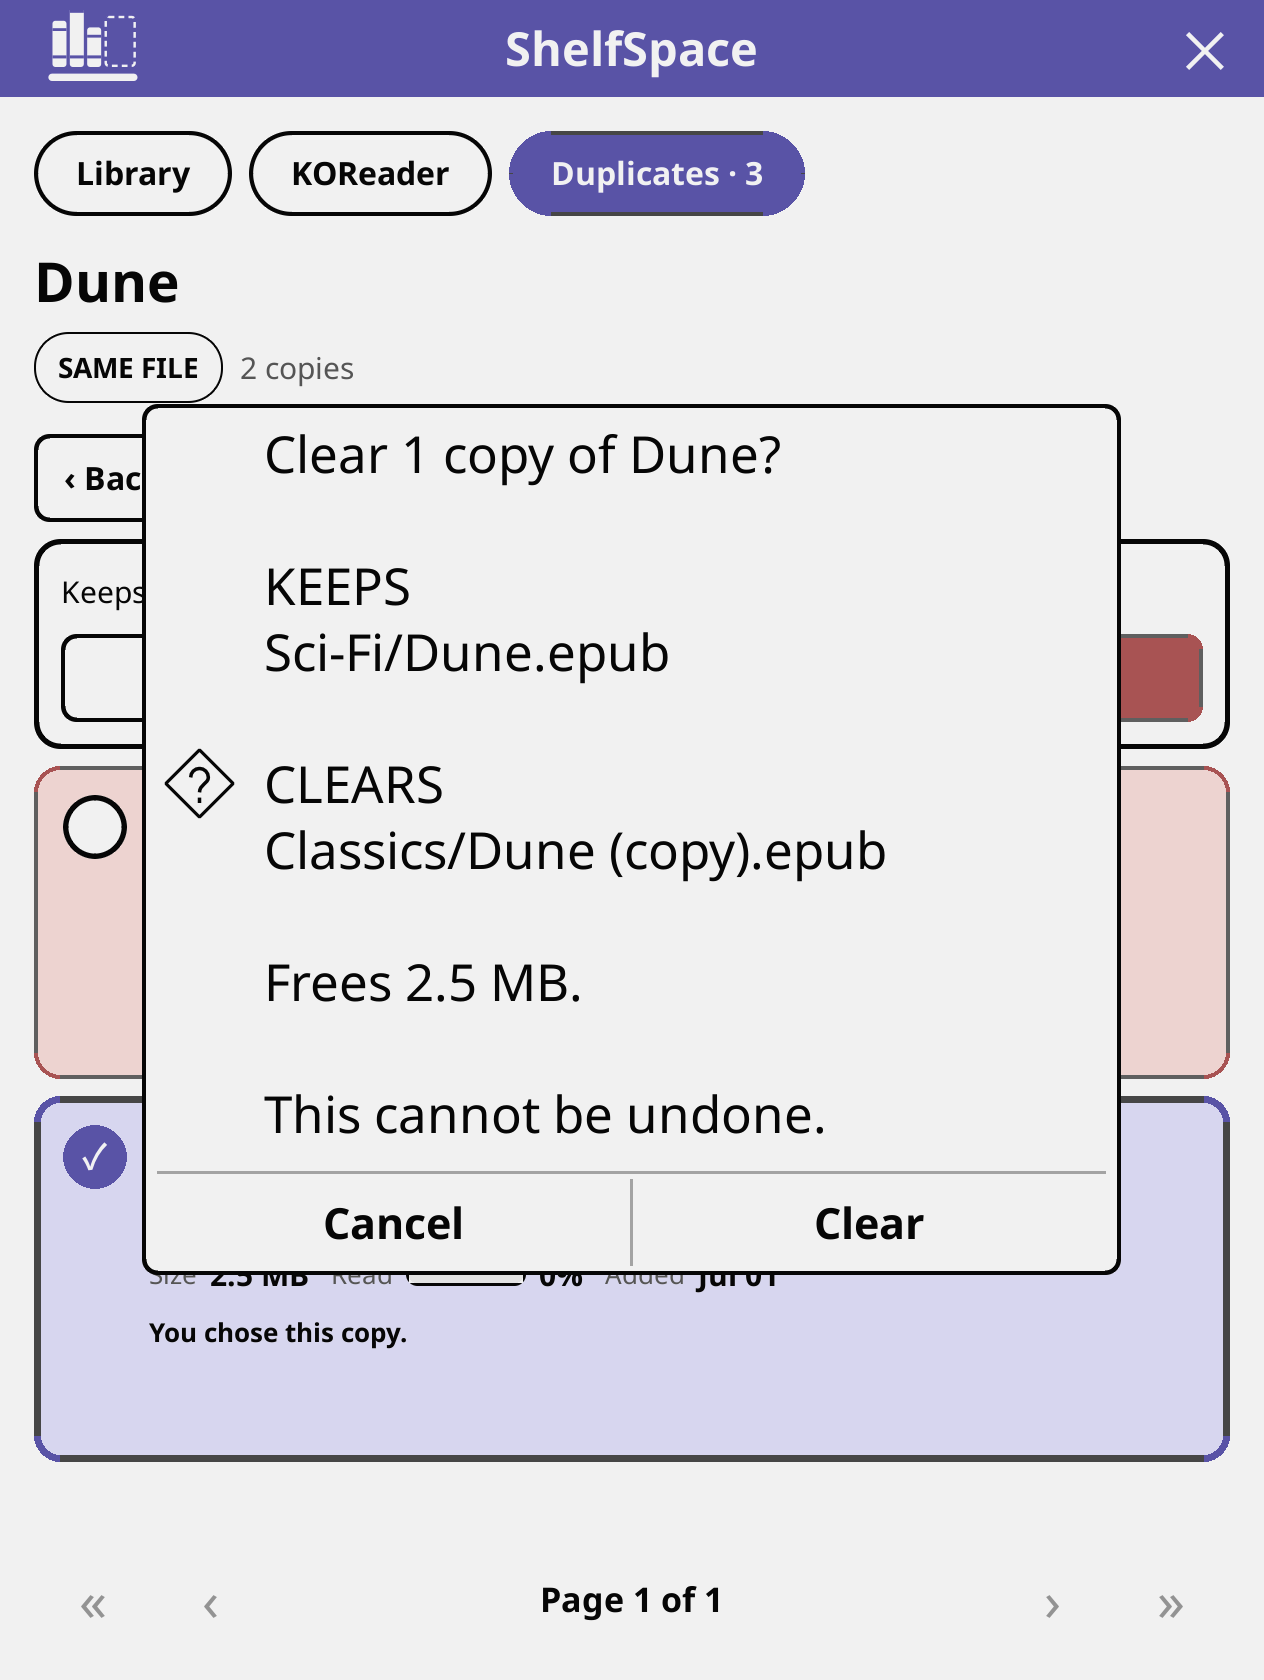
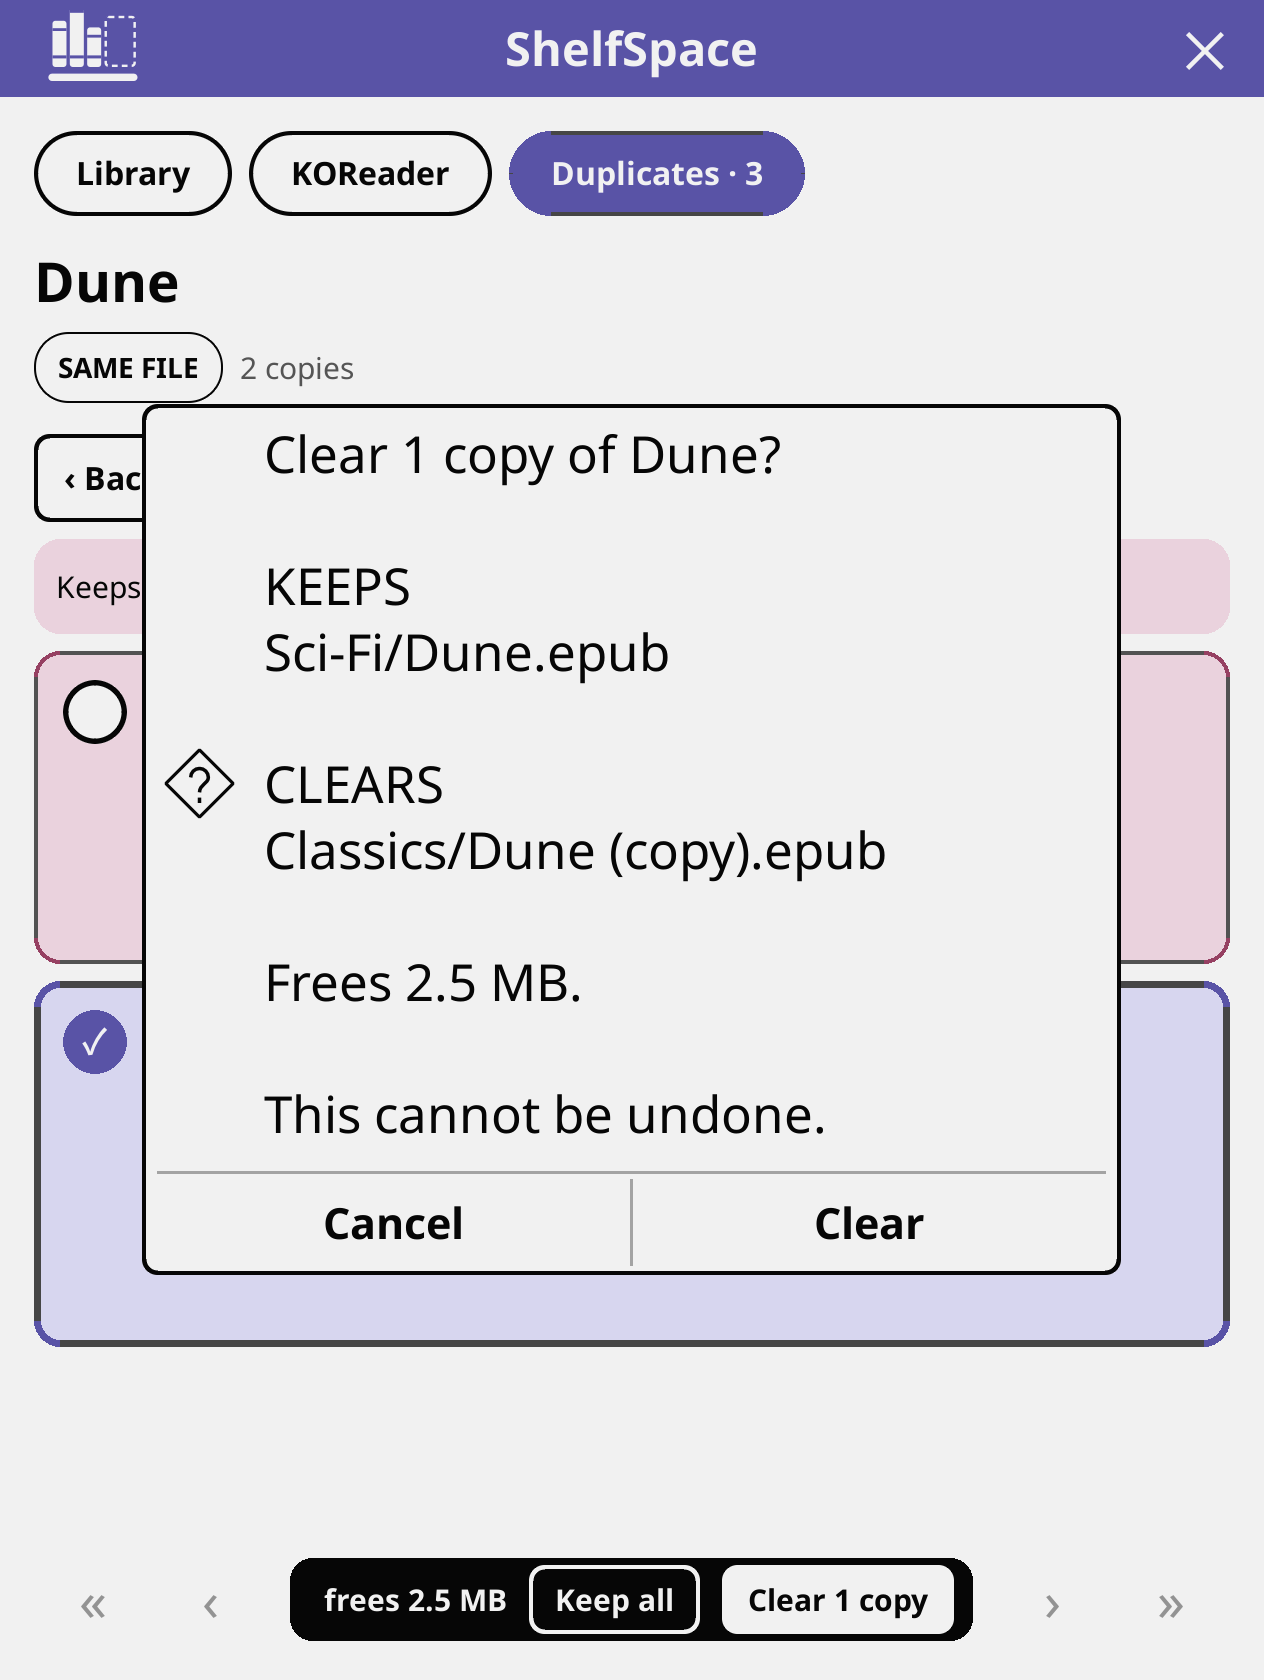
fix: use the Duplicates magenta for what clears, put the duplicate set's buttons in the floating bar, curve the bar like its buttons, and make a whole card tappable

diff --git a/README.md b/README.md
@@ -73,7 +73,7 @@ Shown with a count when a book is in the library more than once. It opens on how
 - **Same file** means identical bytes. **Same book** means the same name in another format, or with a "(1)" on the end. Spellings and capitals do not matter, so `Dune.epub`, `dune.KEPUB.EPUB` and `DUNE.fb2.zip` are one book.
 - Open a set to compare its copies side by side: file name, size, how far through you are, when it was added, where it is, and tags for what sets one apart (newest, smallest, an older format).
 - The copy to keep has a heavy outline and a filled radio, and says why. The book you are reading, or the copy you have read most, never goes. After that: the format that reads best on e-ink (EPUB, then MOBI, then reflowable formats, then fixed layouts such as PDF), then the copy nearest the top of the library, then the newest. Tap another copy to keep that one instead.
-- A sentence above the buttons says exactly what **Clear** will do, and the confirmation names what it keeps and what it clears. **Keep all** leaves the set alone from then on; those are under **Kept on purpose** in the menu.
+- A sentence above the copies says exactly what clearing will do, and the confirmation names what it keeps and what it clears. The buttons float in the bar over the bottom of the page, as everywhere else: **Clear** the copies, or **Keep all**, which leaves the set alone from then on (those are under **Kept on purpose** in the menu). A copy answers a tap anywhere on its card.
 
 It is one book at a time on purpose, so every deletion is something you have looked at.
 
